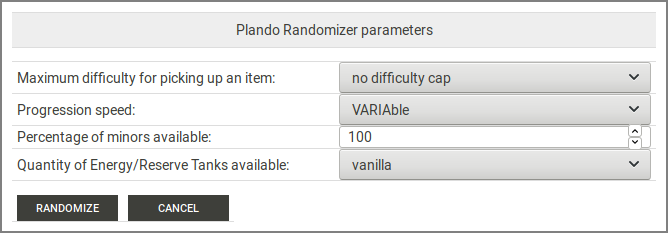
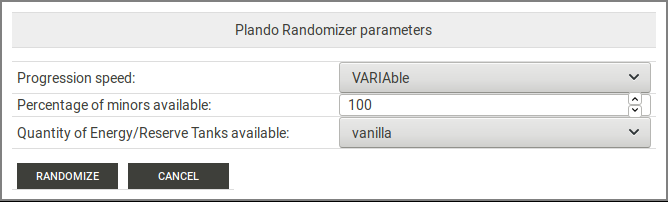
plando: remove max diff param for rando (use hardcore)

diff --git a/web/views/plando.html b/web/views/plando.html
@@ -191,7 +191,7 @@ function randomize() {
 
   var data = {action: "randomize", scope: "common"};
 
-  var elems = ["maxDifficulty", "progressionSpeed", "minorQty", "energyQty"];
+  var elems = ["progressionSpeed", "minorQty", "energyQty"];
 
   for(var i=0; i<elems.length; i++) {
     data[elems[i]] = document.getElementById(elems[i]).value;
@@ -703,10 +703,6 @@ def displayNumber(id, min, max, default, step="1"):
       <tr><td colspan=2></td></tr>
       <tr><td id="RandoGrab" colspan=2 class="center greyRow"><p>Plando Randomizer parameters</p></td></tr>
       <tr><td colspan=2 class="blankRow"></td></tr>
-      <tr>
-        <td>Maximum difficulty for picking up an item:</td>
-        <td>{{displaySelect("maxDifficulty", ["no difficulty cap", "easy", "medium", "hard", "harder", "hardcore", "mania"], "no difficulty cap")}}</td>
-      </tr>
       <tr>
 	<td>Progression speed:</td>
 	<td>{{displaySelect("progressionSpeed", ["slowest", "slow", "medium", "fast", "fastest", "basic", "VARIAble"], "VARIAble")}}

diff --git a/solver.py b/solver.py
@@ -1019,11 +1019,9 @@ class InteractiveSolver(CommonSolver):
             '--plandoRando', plandoCurrentJson,
             '--progressionSpeed', parameters["progressionSpeed"],
             '--minorQty', parameters["minorQty"],
+            '--maxDifficulty', 'hardcore',
             '--energyQty', parameters["energyQty"]
         ]
-
-        if parameters["maxDifficulty"] != "no difficulty cap":
-            params += ['--maxDifficulty', parameters["maxDifficulty"]]
 
         subprocess.call(params)
 
@@ -1745,7 +1743,6 @@ def interactiveSolver(args):
                 params["lock"] = args.lock
             elif args.action == "randomize":
                 params["progressionSpeed"] = args.progressionSpeed
-                params["maxDifficulty"] = args.maxDifficulty
                 params["minorQty"] = args.minorQty
                 params["energyQty"] = args.energyQty
         elif args.scope == 'item':
@@ -1862,8 +1859,6 @@ if __name__ == "__main__":
                         dest="fill", action='store_true')
     parser.add_argument('--progressionSpeed', help="rando plando (used in interactive mode)",
                         dest="progressionSpeed", nargs="?", default=None, choices=["slowest", "slow", "medium", "fast", "fastest", "basic", "VARIAble"])
-    parser.add_argument('--maxDifficulty', help="rando plando  (used in interactive mode)",
-                        dest="maxDifficulty", nargs="?", default=None, choices=["no difficulty cap", "easy", "medium", "hard", "harder", "hardcore", "mania"])
     parser.add_argument('--minorQty', help="rando plando  (used in interactive mode)",
                         dest="minorQty", nargs="?", default=None, choices=[str(i) for i in range(0,101)])
     parser.add_argument('--energyQty', help="rando plando  (used in interactive mode)",

diff --git a/web/controllers/solver_web.py b/web/controllers/solver_web.py
@@ -1472,7 +1472,6 @@ class WS(object):
                 params.append('--lock')
         elif action == 'randomize':
             params += ['--progressionSpeed', parameters["progressionSpeed"],
-                       '--maxDifficulty', parameters["maxDifficulty"],
                        '--minorQty', parameters["minorQty"],
                        '--energyQty', parameters["energyQty"]
             ]
@@ -1664,8 +1663,6 @@ class WS_common_randomize(WS):
     def validate(self):
         super(WS_common_randomize, self).validate()
 
-        if request.vars.maxDifficulty not in ["no difficulty cap", "easy", "medium", "hard", "harder", "hardcore", "mania"]:
-            raiseHttp(400, "Wrong value for maxDifficulty: {}".format(request.vars.maxDifficulty), True)
         if request.vars.progressionSpeed not in ["slowest", "slow", "medium", "fast", "fastest", "basic", "VARIAble"]:
             raiseHttp(400, "Wrong value for progressionSpeed: {}".format(request.vars.progressionSpeed), True)
         minorQtyInt = getInt('minorQty', True)
@@ -1679,7 +1676,7 @@ class WS_common_randomize(WS):
             raiseHttp(400, "Randomize can only be use in plando mode", True)
 
         params = {}
-        for elem in "maxDifficulty", "progressionSpeed", "minorQty", "energyQty":
+        for elem in "progressionSpeed", "minorQty", "energyQty":
             params[elem] = request.vars[elem]
 
         self.session["rando"] = params
